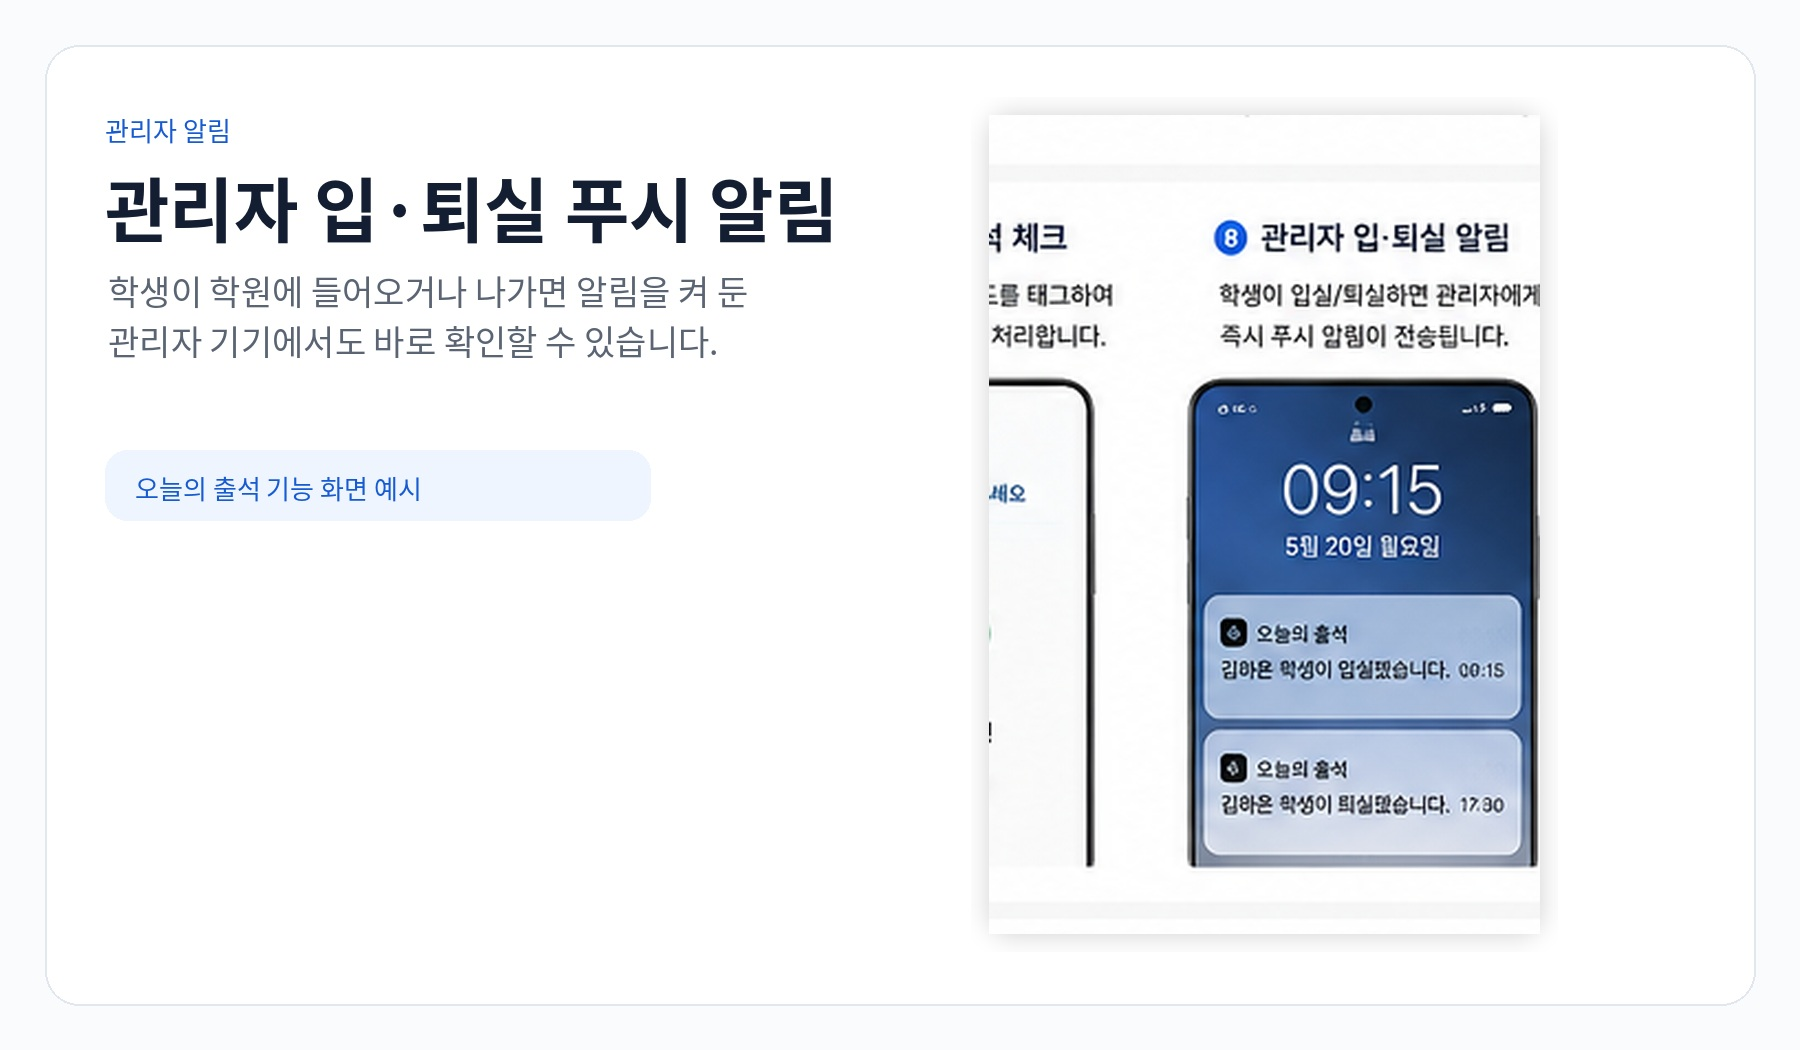
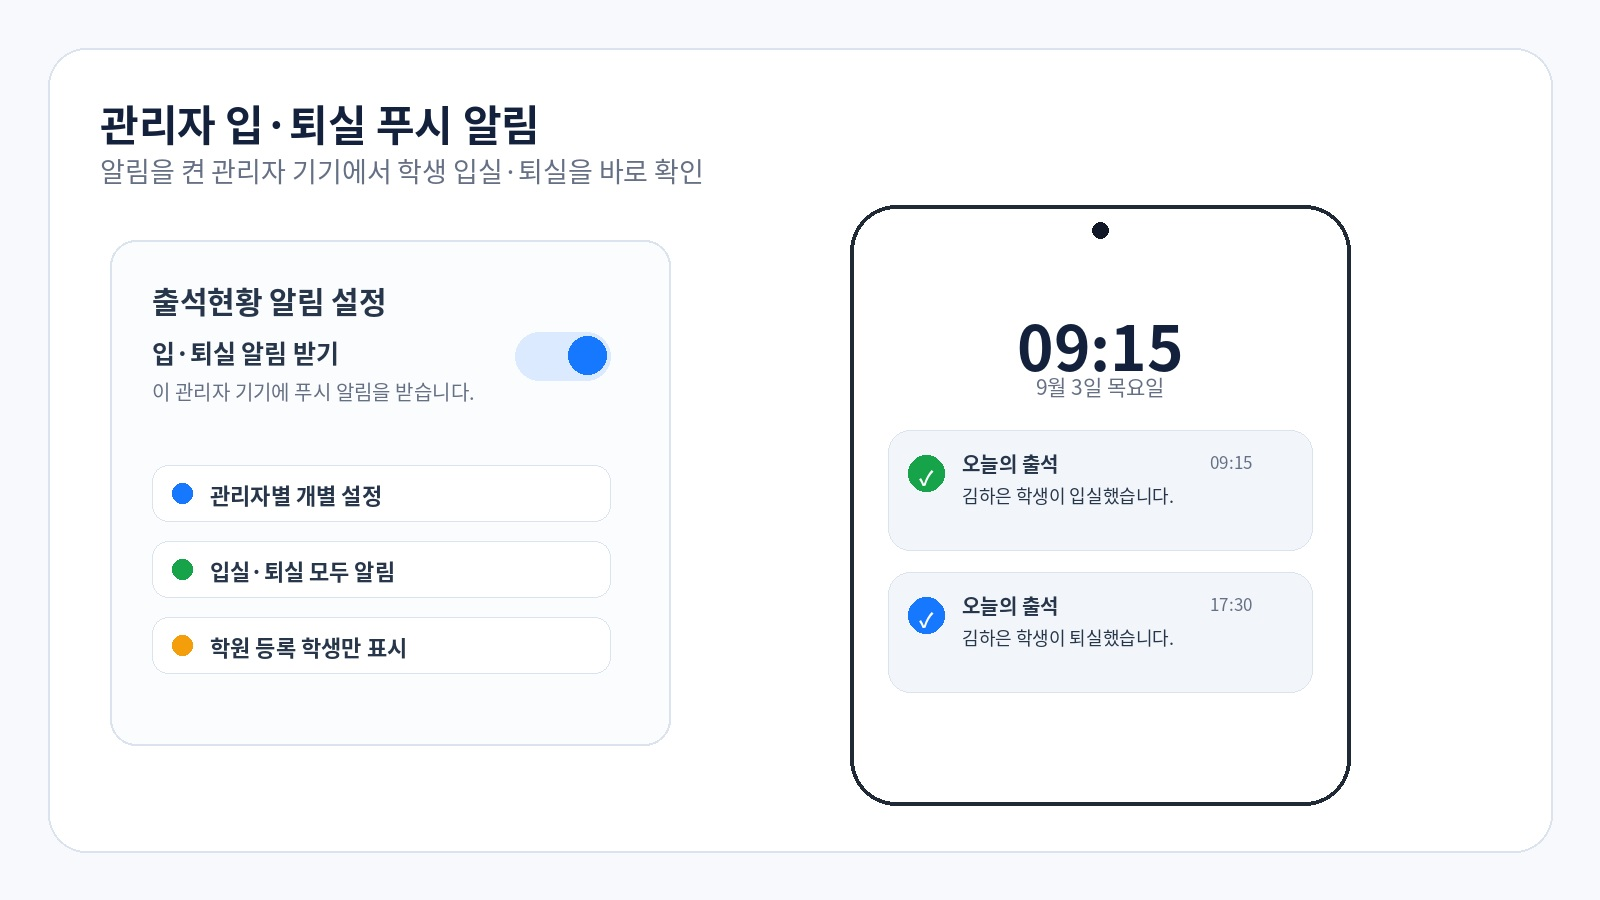
오늘의 출석 부분 개편2

diff --git a/templates/attendance.html b/templates/attendance.html
@@ -297,14 +297,14 @@
 
     <div class="screenshot-grid two">
       <figure class="screenshot-card wide-shot">
-        <img src="/static/images/attendance/admin_notice_management.jpg" alt="학원 관리자 공지 관리 기능 예시 화면">
+        <img src="/static/images/attendance/admin_notice_management_v2.jpg" alt="학원 관리자 공지 관리 기능 예시 화면">
         <figcaption>
           <strong>관리자 공지 관리 예시</strong>
           <span>일반공지·긴급공지와 자주 쓰는 문구를 활용해 학원 안내를 빠르게 작성하고 전달하는 흐름을 확인할 수 있습니다.</span>
         </figcaption>
       </figure>
       <figure class="screenshot-card wide-shot">
-        <img src="/static/images/attendance/admin_attendance_push.jpg" alt="학생 입실 퇴실 관리자 푸시 알림 예시 화면">
+        <img src="/static/images/attendance/admin_attendance_push_v2.jpg" alt="학생 입실 퇴실 관리자 푸시 알림 예시 화면">
         <figcaption>
           <strong>관리자 입·퇴실 푸시 알림 예시</strong>
           <span>학생의 입실·퇴실이 처리되면 알림을 켜 둔 관리자 기기에서도 바로 확인할 수 있습니다.</span>
@@ -328,7 +328,7 @@
     </div>
 
     <figure class="screenshot-card wide-shot">
-      <img src="/static/images/attendance/ble_reader_connection.jpg" alt="ACR1555U BLE NFC 리더기 연결과 NFC 등록 출석 예시 화면">
+      <img src="/static/images/attendance/ble_reader_connection_v2.jpg" alt="ACR1555U BLE NFC 리더기 연결과 NFC 등록 출석 예시 화면">
       <figcaption>
         <strong>ACR1555U BLE NFC 리더기 연동 예시</strong>
         <span>리더기 연결부터 NFC 등록·재등록, 실제 입·퇴실 태그까지 하나의 흐름으로 사용하는 예시입니다.</span>
